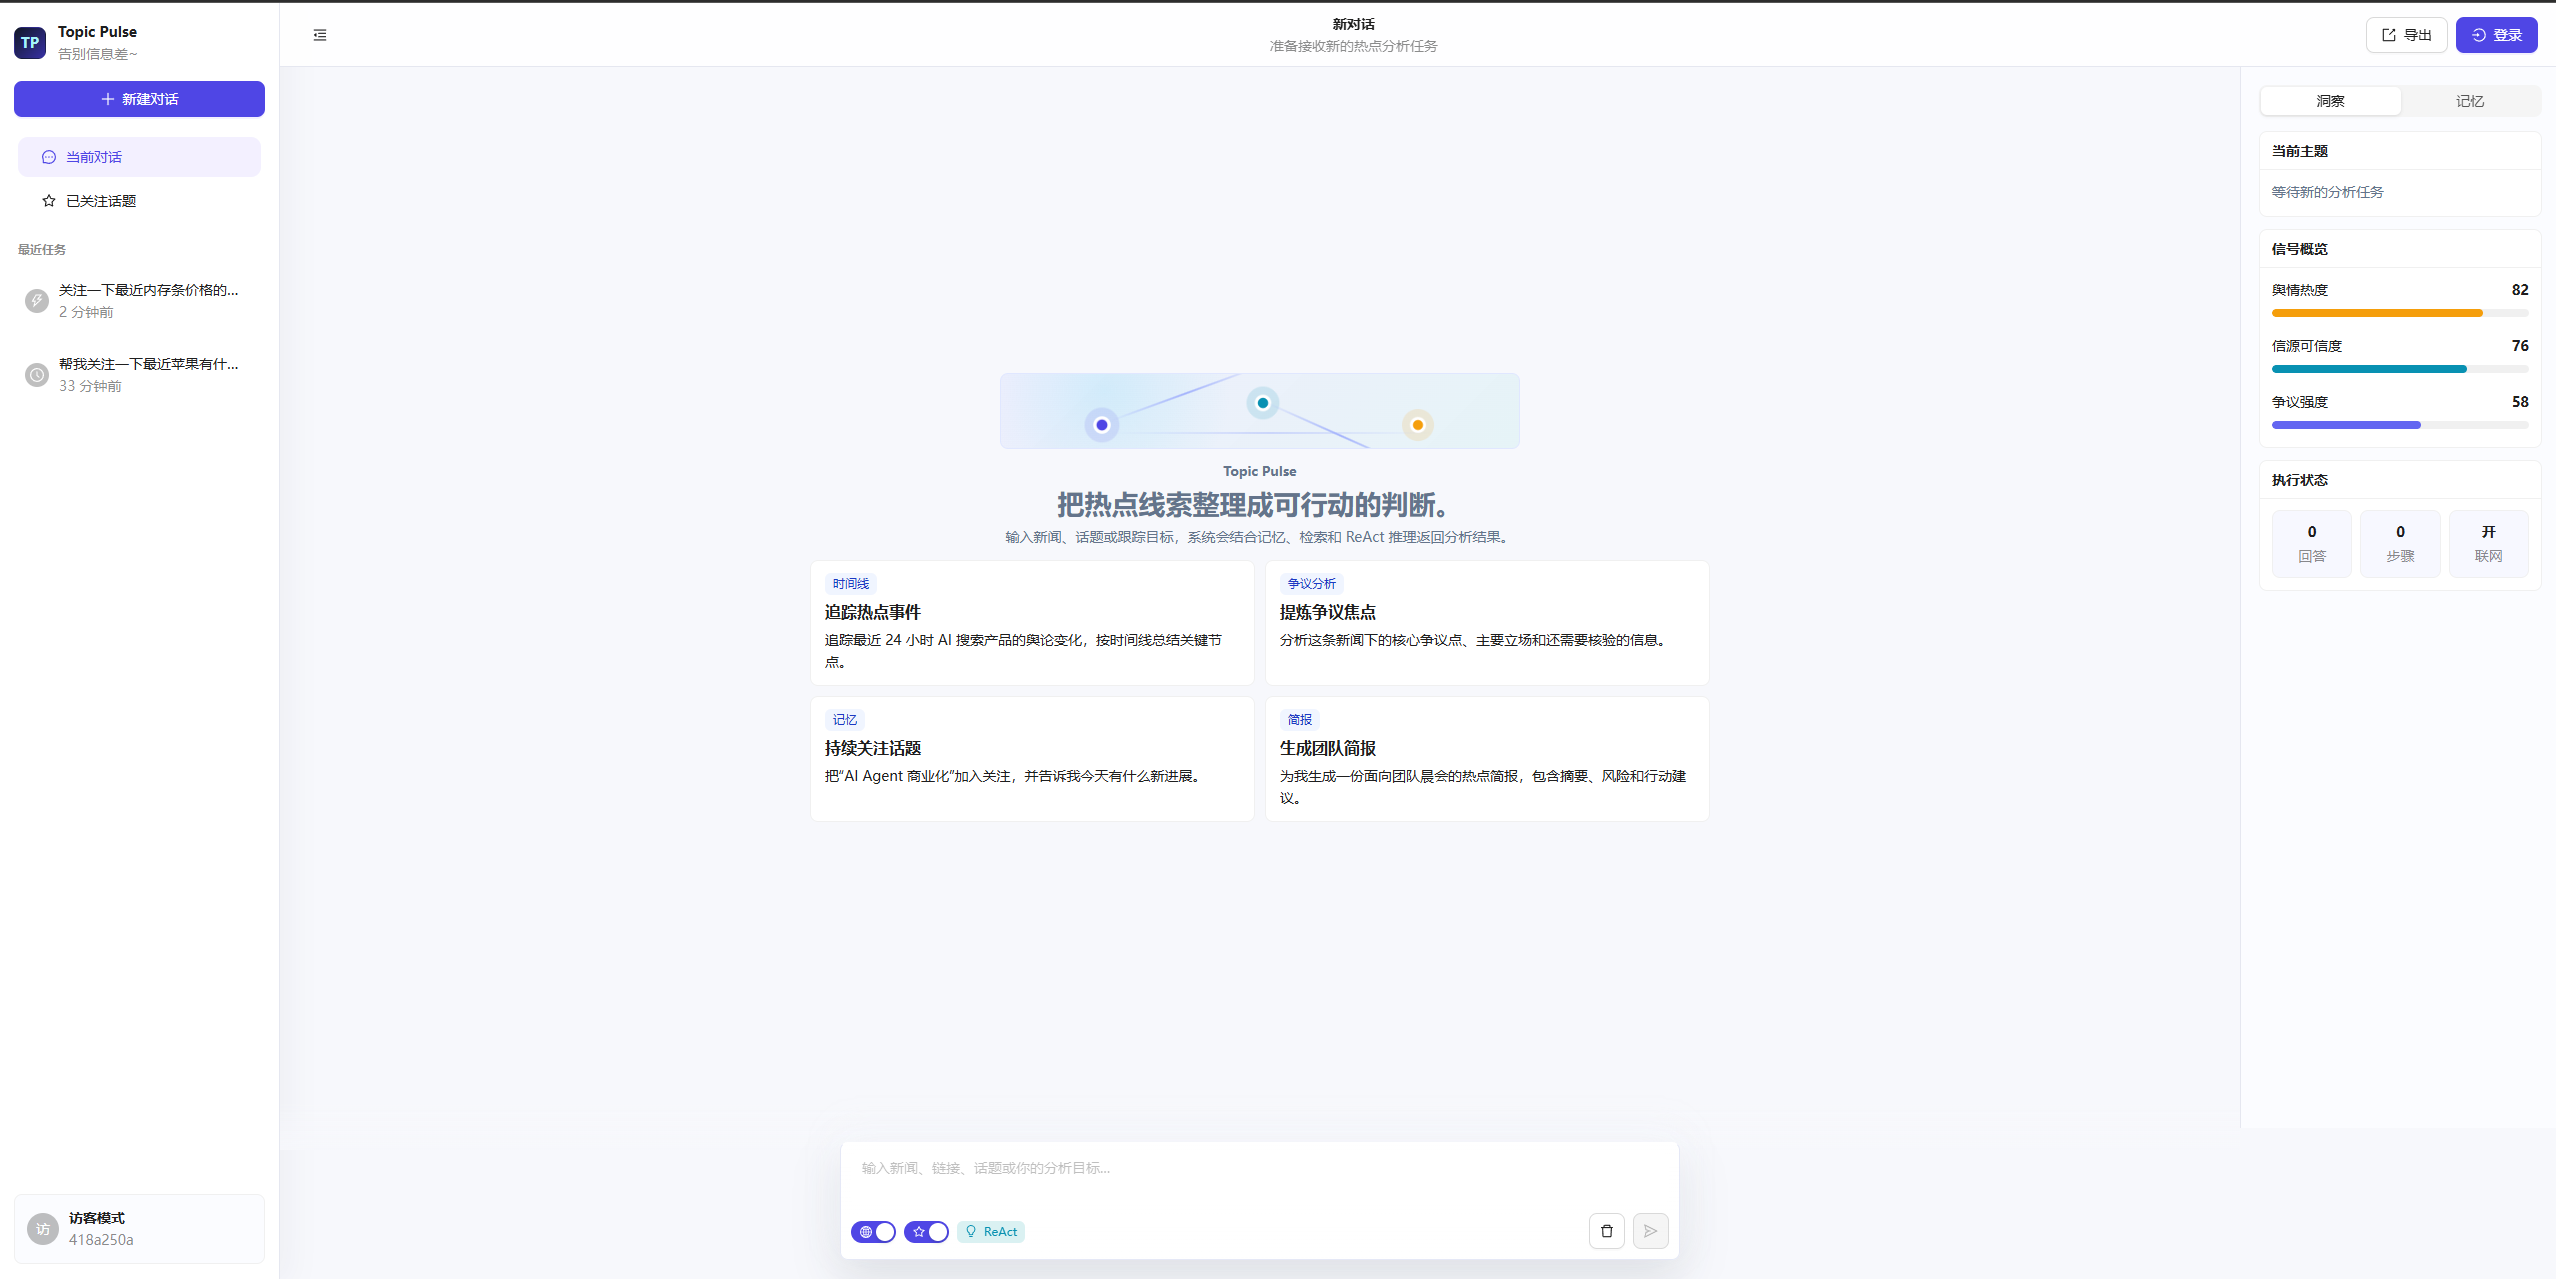
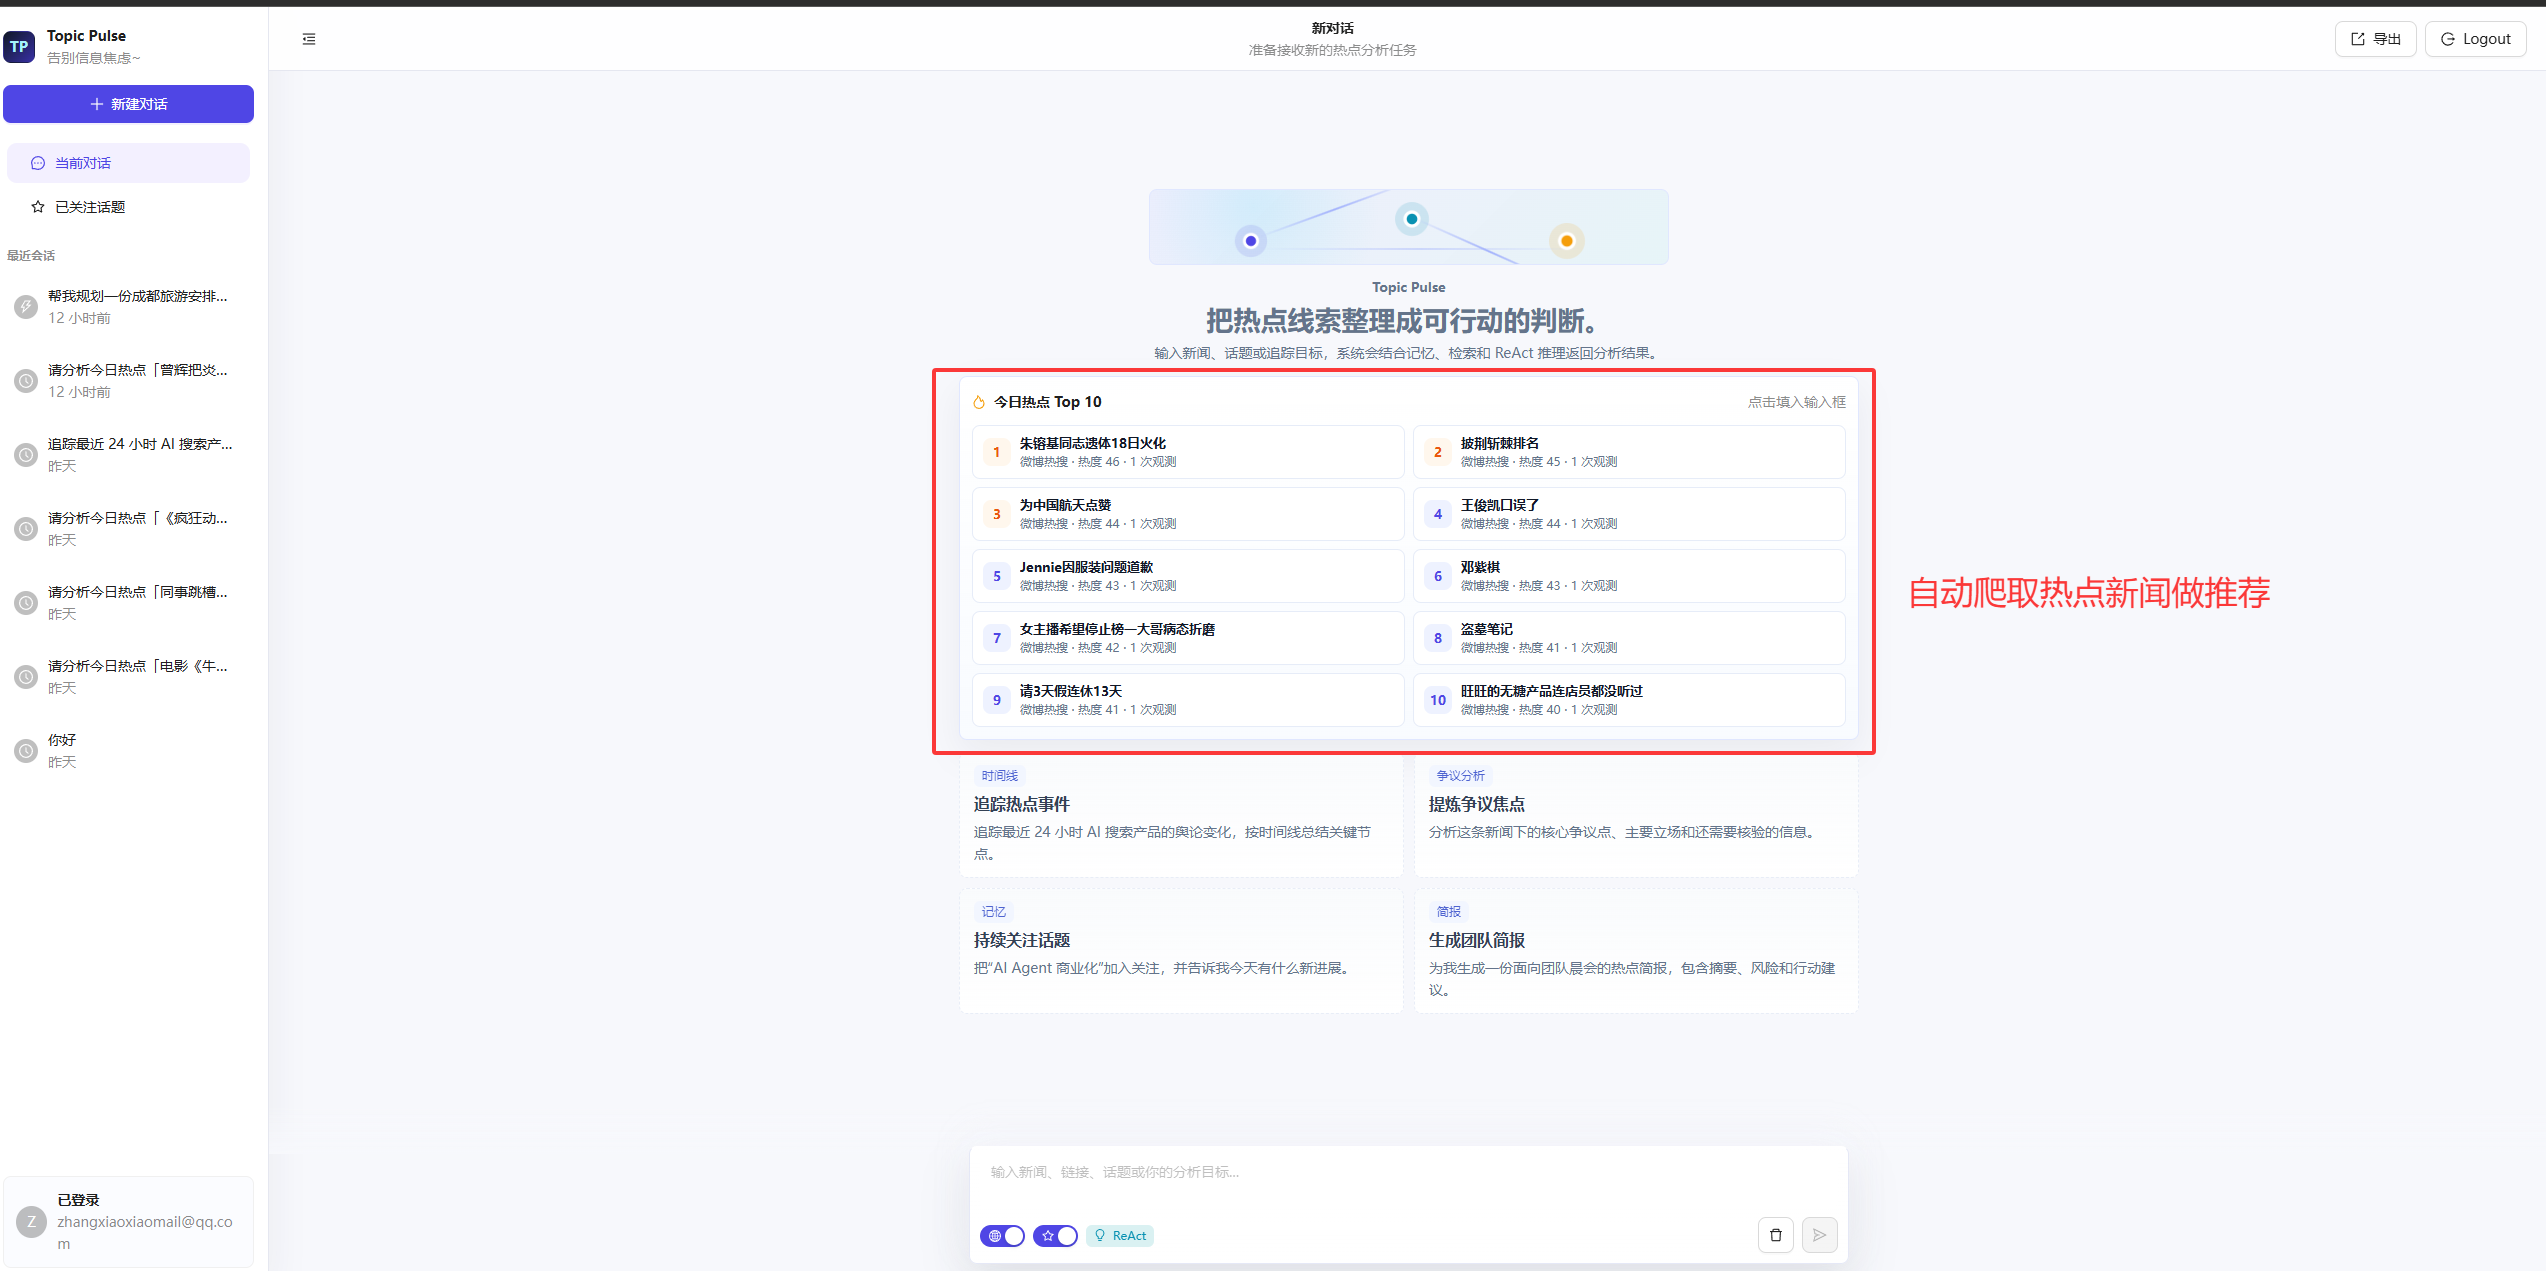
doc:README文档优化

diff --git a/src/topic_pulse_v2/scheduler/README.md b/src/topic_pulse_v2/scheduler/README.md
@@ -19,7 +19,7 @@ src/topic_pulse_v2/scheduler/
   registry.py      任务名称到 Python callable 的注册表
   service.py       基于 APScheduler 的 SchedulerService 门面
   store.py         SchedulerStore 接口和 SQLiteSchedulerStore 实现
-  tasks.py         内置调度任务，例如 refresh_topic
+  tasks.py         内置调度任务，例如 refresh_topic、refresh_hotspots
   README.md        当前设计说明
 ```
 
@@ -64,6 +64,7 @@ src/topic_pulse_v2/scheduler/
 
 ```text
 refresh_topic -> refresh_topic(...)
+refresh_hotspots -> refresh_hotspots(...)
 cleanup_trace_logs -> cleanup_trace_logs(...)
 ```
 
@@ -104,6 +105,7 @@ create_app()
   -> 从 topic_pulse.sqlite3 读取 active 状态的 ScheduledJob
   -> APScheduler.add_job(...) 注册到调度引擎
   -> APScheduler.start()
+  -> 确保默认微博热点刷新任务存在
 ```
 
 这里需要区分两类“注册”：
@@ -195,6 +197,38 @@ metadata.topic_id = topic.id
 metadata.topic_title = topic.title
 ```
 
+## 默认热点刷新任务
+
+`refresh_hotspots` 是平台级热点沉淀任务，不属于某个用户。FastAPI 启动时会在 `app.py` 中执行 `_ensure_default_hotspot_refresh_job(...)`，确保全局 SQLite 中存在一条微博热点刷新任务：
+
+```text
+id = hotspot-refresh-weibo-hourly
+task_name = refresh_hotspots
+trigger = interval
+trigger_args = {"hours": 1}
+kwargs = {"provider": "weibo"}
+metadata.type = "hotspot_refresh"
+metadata.provider = "weibo"
+```
+
+如果数据库中已经存在 `metadata.type = hotspot_refresh` 且 `metadata.provider = weibo` 的任务，则不会重复创建。
+
+默认执行链路：
+
+```text
+refresh_hotspots(provider="weibo")
+  -> create_hot_news_provider("weibo")
+  -> WeiboHotNewsProvider.fetch_hot_news()
+  -> HotspotAgent.run(...)
+  -> 写入 hot_news_snapshots
+  -> 合并或创建 hotspot_topics
+  -> 写入 hotspot_observations
+  -> 重算 daily_hotspot_rankings
+  -> 返回本次运行摘要
+```
+
+这条任务沉淀出的今日 Top 10 会被 Web 首页通过 `/api/hotspots/today` 读取并展示。
+
 ## 任务何时发生调度
 
 任务执行有两条路径。
@@ -264,6 +298,34 @@ summary
 
 这些内容会被 `SchedulerService._run_job(...)` 序列化后写入 `job_runs.result_summary`。
 
+对于 `refresh_hotspots`，实际执行链路是：
+
+```text
+refresh_hotspots(provider="weibo")
+  -> HotspotAgent 固定 pipeline
+  -> 热点 Provider 拉取外部热点
+  -> 保存原始快照
+  -> 读取今日已有热点上下文
+  -> LLM 语义归并/总结，或规则 fallback
+  -> 保存热点主题和小时级观测
+  -> 计算今日排行
+```
+
+`refresh_hotspots` 返回：
+
+```text
+date
+captured_at
+fetched_count
+normalized_count
+merged_topic_count
+ranking_count
+top_topics
+errors
+```
+
+这些内容同样会被写入 `job_runs.result_summary`。
+
 ## 当前调度 API
 
 ```text
@@ -274,6 +336,12 @@ POST /api/scheduler/jobs/{job_id}/pause
 POST /api/scheduler/jobs/{job_id}/resume
 POST /api/scheduler/jobs/{job_id}/run
 GET  /api/scheduler/jobs/{job_id}/runs
+```
+
+热点排行只读 API：
+
+```text
+GET /api/hotspots/today?limit=10
 ```
 
 ## 数据表
@@ -312,6 +380,15 @@ duration_ms
 error
 result_summary
 metadata
+```
+
+热点沉淀相关表也保存在同一个 SQLite 数据库中：
+
+```text
+hot_news_snapshots       每小时拉取的原始热点快照
+hotspot_topics           今日归并后的热点主题
+hotspot_observations     某个热点在某小时的观测记录
+daily_hotspot_rankings   今日热点排行结果
 ```
 
 ## 关闭链路
